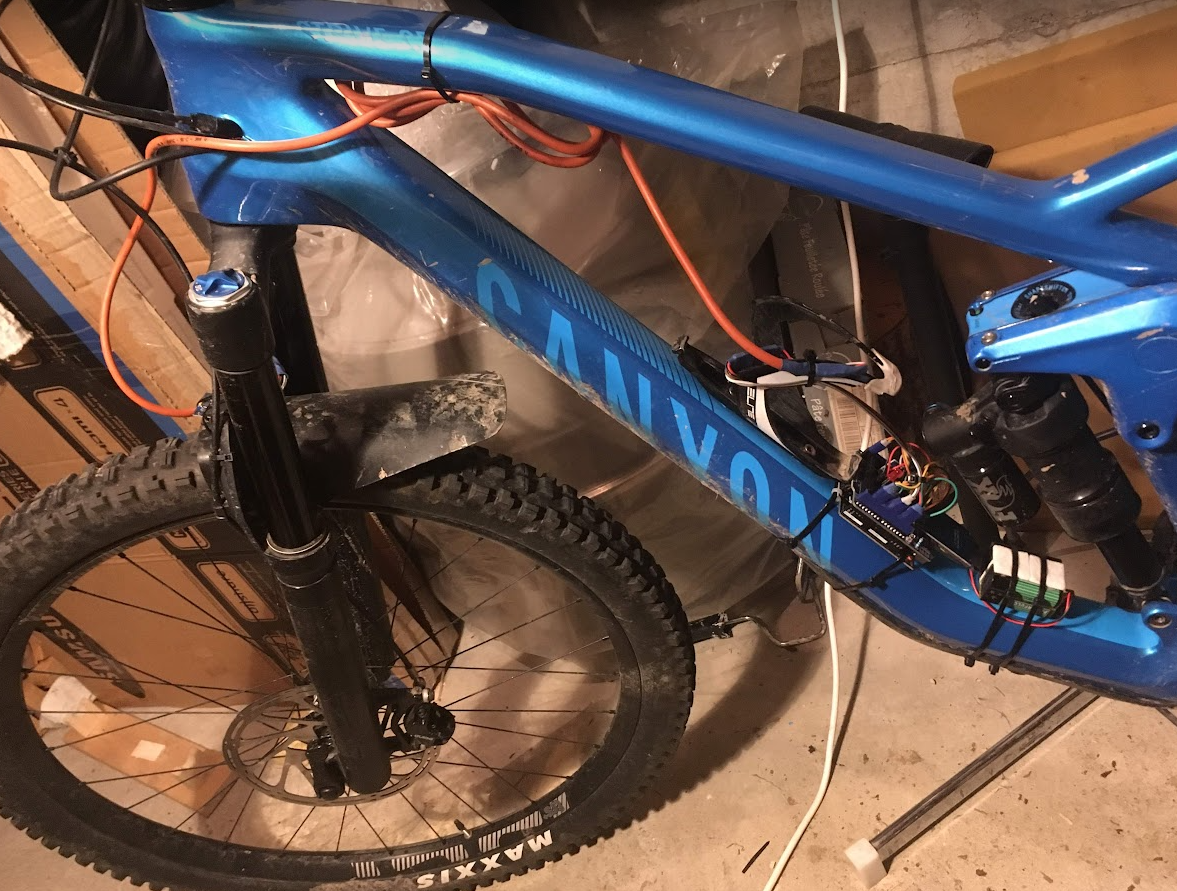
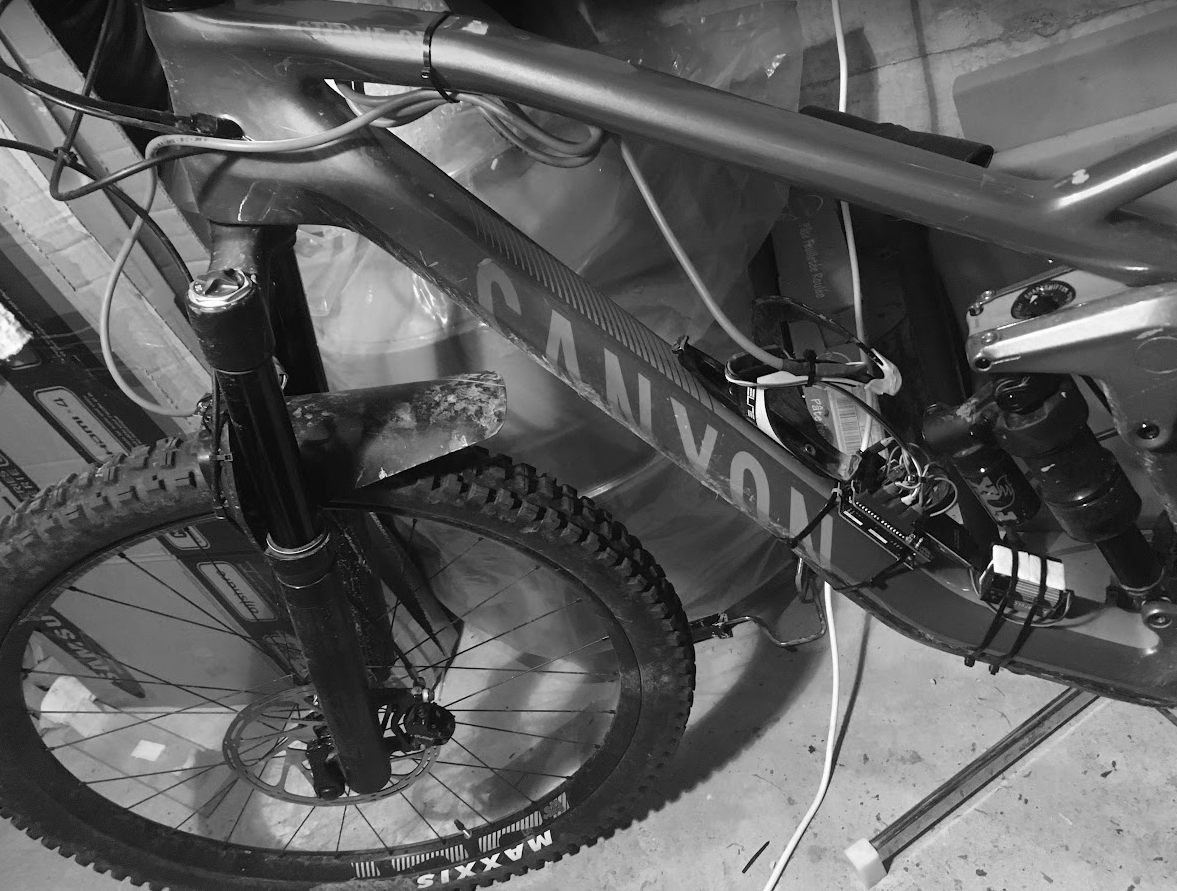
change images to BW

diff --git a/src/assets/data/projects.js b/src/assets/data/projects.js
@@ -7,7 +7,7 @@ import tyb from '../images/tyb.png'
 import woodbox from '../images/woodbox.JPG'
 import pmo from '../images/pmo.jpg'
 import finance from '../images/finance.jpg'
-import lion from '../images/lion.jpg'
+import wheels from '../images/wheels.jpg'
 import pixel from '../images/pixel.png'
 import pulse from '../images/pulse.jpg'
 
@@ -26,7 +26,7 @@ const projects = [
         name: 'Customization app',
         desc:
         'Application to create a custom design UV printed on freestyle scooter wheels. Build with Django and React frameworks.',
-        img: lion,
+        img: wheels,
     },
     {
         id: uuidv4(),
